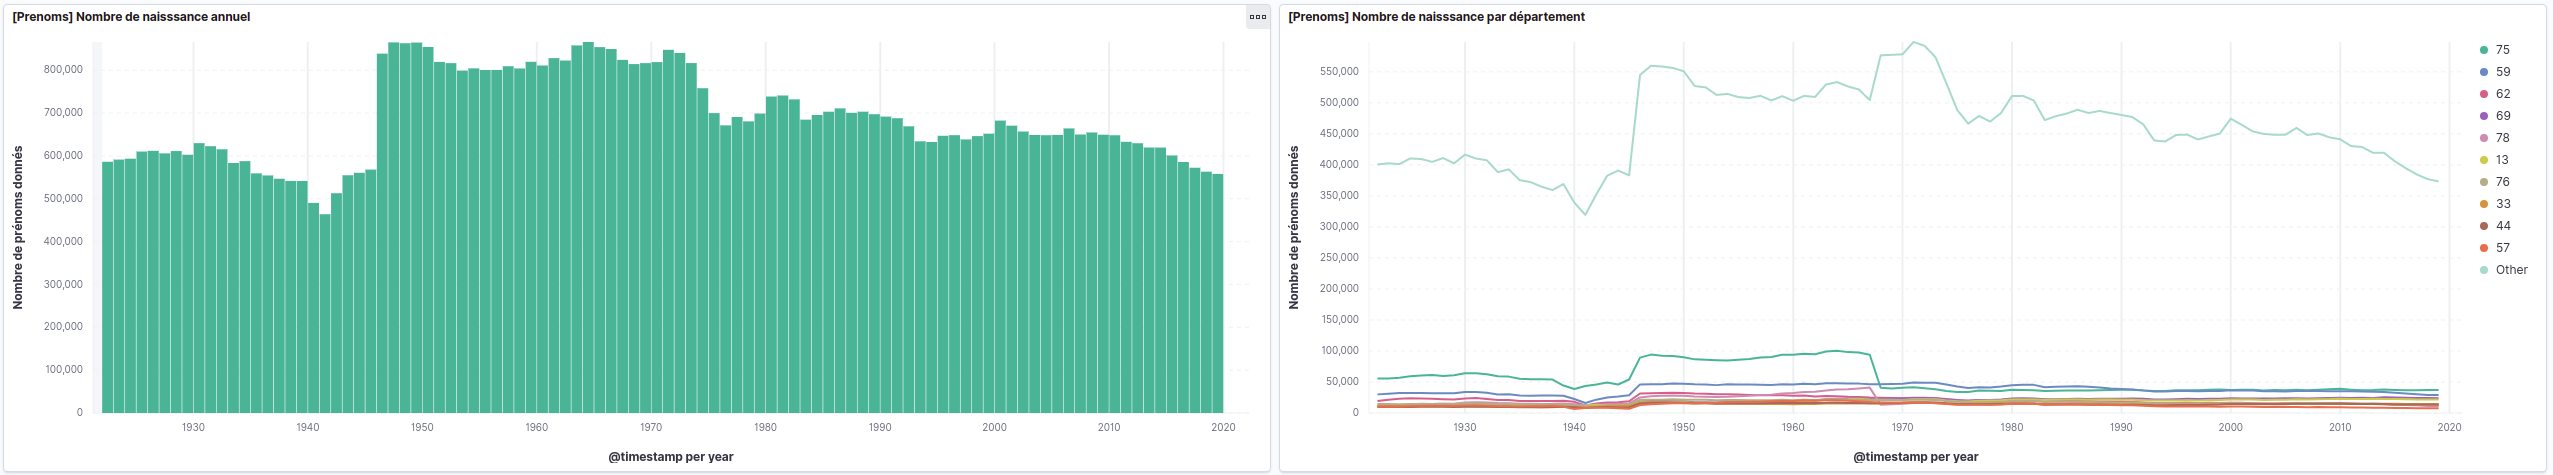
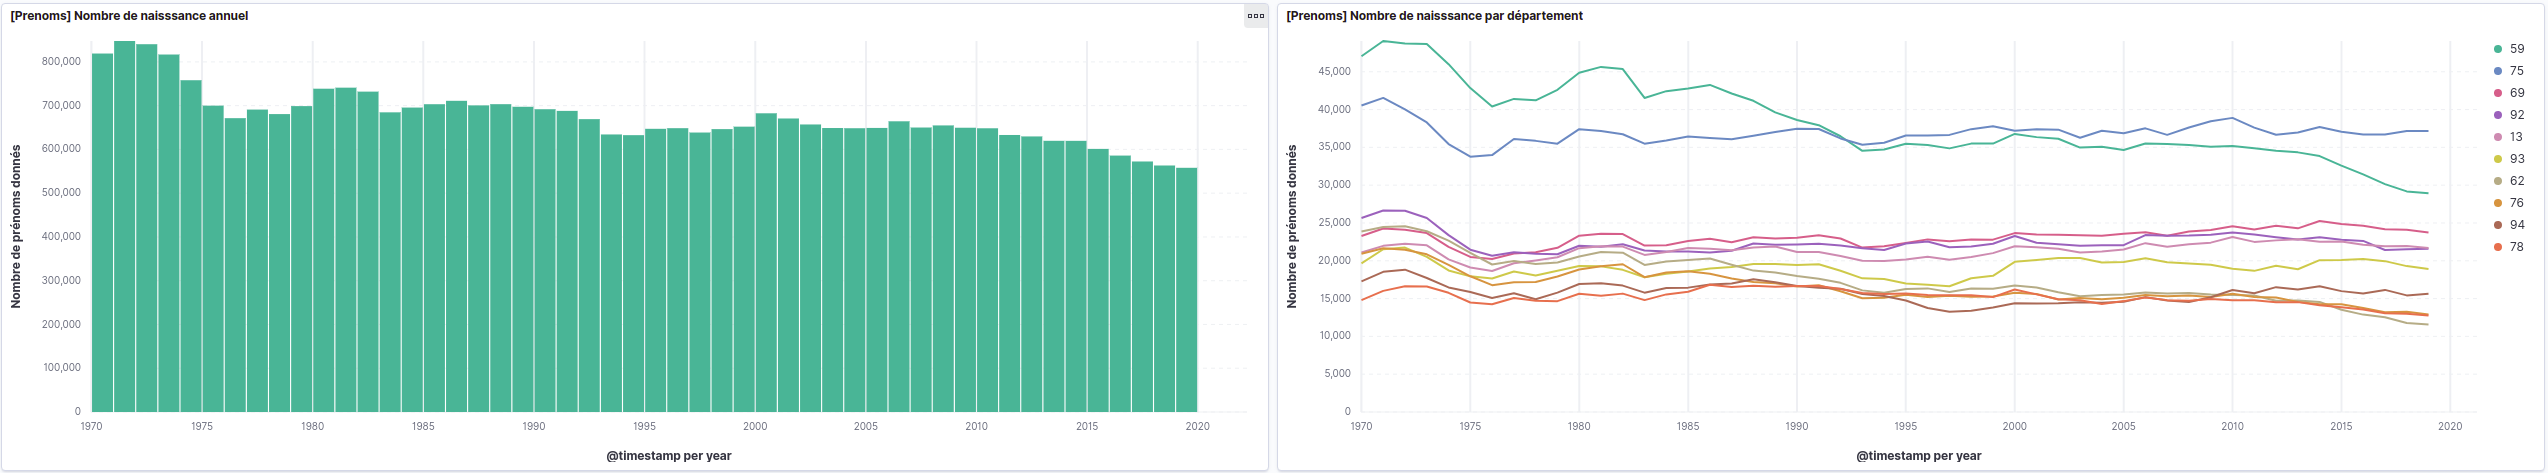
Corrected a picture and added answer

diff --git a/tps/tp-6.md b/tps/tp-6.md
@@ -74,7 +74,7 @@ C'est un bon exemple de ce que l'on peut trouver dans le monde de l'entreprise :
 
 Même si le jeu de données est très fortement axé sur les prénoms, les deux métriques qui vont nous intéresser sont:
 - le nombre de naissances par an (=nombre de noms donnés)
-- le nombre de naissances par département par an
+- le nombre de naissances par département par an (nous ne voulons pas la catégorie *autres*)
 
 Après avoir créé l'index pattern Kibana, créer une dashboard contenant une visualisation des ces deux métriques.
 
